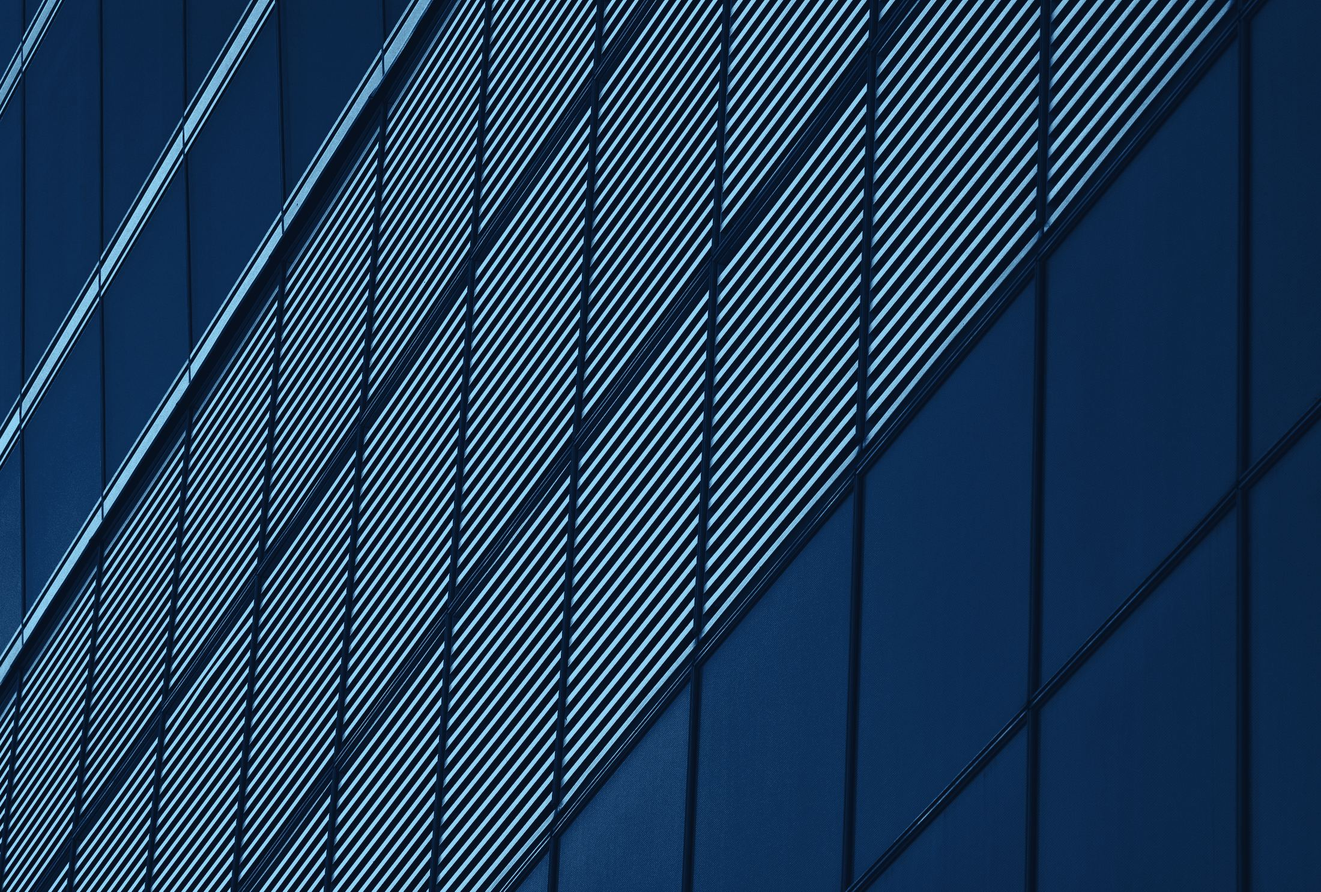
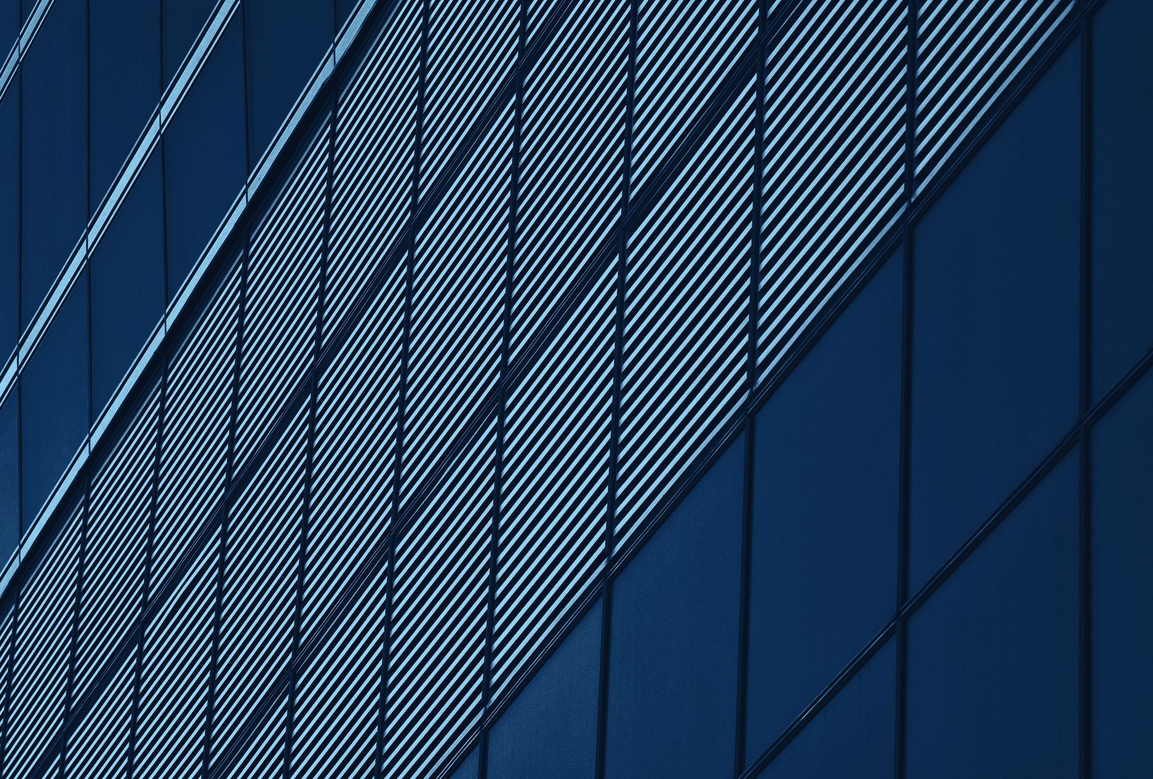
Add files via upload

diff --git a/about.html b/about.html
@@ -1262,6 +1262,9 @@ html[lang="en"] .lg[lang="en"],html[lang="nl"] .lg[lang="nl"],html[lang="fr"] .l
 
 /* ---- v19: hero byline ---- */
 .hero-by{display:block;margin-bottom:18px;font-family:var(--f-mono);font-size:12.5px;letter-spacing:.12em;text-transform:uppercase;color:#7FD3F7}
+
+/* ---- v20: responsive images ---- */
+picture{display:contents}
 </style>
 
 </head>
@@ -1299,7 +1302,7 @@ html[lang="en"] .lg[lang="en"],html[lang="nl"] .lg[lang="nl"],html[lang="fr"] .l
 <main id="top">
 <header class="hero page-hero" id="hero">
   <div class="hero-top">
-    <div class="hero-bg" aria-hidden="true"><img src="img/final.jpg" alt="" fetchpriority="high"></div>
+    <div class="hero-bg" aria-hidden="true"><picture><source type="image/webp" srcset="img/final-640.webp 640w, img/final-1280.webp 1280w, img/final-1920.webp 1920w" sizes="100vw"><img src="img/final.jpg" alt="" fetchpriority="high"></picture></div>
     <div class="wrap hero-inner">
       <span class="eyebrow">About the author</span>
       <h1>About & contact</h1>
@@ -1309,14 +1312,14 @@ html[lang="en"] .lg[lang="en"],html[lang="nl"] .lg[lang="nl"],html[lang="fr"] .l
 </header>
 <section id="contact" class="author" aria-labelledby="au-h">
   <div class="wrap au-grid">
-    <div class="au-side rv"><figure class="au-photo"><img src="img/author.jpg" alt="Portrait of Erlend Hollebosch" loading="lazy" width="720" height="900"></figure></div>
+    <div class="au-side rv"><figure class="au-photo"><picture><source type="image/webp" srcset="img/author-400.webp 400w, img/author-720.webp 720w" sizes="(min-width: 900px) 420px, 260px"><img src="img/author.jpg" alt="Portrait of Erlend Hollebosch" loading="lazy" width="720" height="900"></picture></figure></div>
     <div class="au-text rv">
       <span class="eyebrow">About the author</span>
       <h2 id="au-h">Erlend Hollebosch</h2>
       <p class="au-role">Enterprise Transformation Lead</p>
       <p>More than 20 years of programme, portfolio and transformation leadership in international organisations, including Volvo Group, Solvay, Telenet and Colruyt Group.</p>
       <p>Today I help leaders redesign work for people and AI agents: operating models, governance and adoption that turn AI investment into measurable outcomes.</p>
-      <div class="au-book has-cover"><img class="au-cover" src="img/book-cover.png" alt="Cover of the book The Coherent Enterprise by Erlend Hollebosch" width="600" height="870" loading="lazy"><div class="au-book-t"><span class="k">Forthcoming book</span><cite data-notr>The Coherent Enterprise</cite><p>Why organizations lose coherence faster than they can adapt, and how leaders restore it. This briefing applies that lens to AI and agents.</p><a href="#contact" data-mail="?subject=The%20Coherent%20Enterprise">Ask about the book <span aria-hidden="true">→</span></a></div></div>
+      <div class="au-book has-cover"><picture><source type="image/webp" srcset="img/book-cover-300.webp 300w, img/book-cover-600.webp 600w" sizes="(min-width: 900px) 240px, 50vw"><img class="au-cover" src="img/book-cover.png" alt="Cover of the book The Coherent Enterprise by Erlend Hollebosch" width="600" height="870" loading="lazy"></picture><div class="au-book-t"><span class="k">Forthcoming book</span><cite data-notr>The Coherent Enterprise</cite><p>Why organizations lose coherence faster than they can adapt, and how leaders restore it. This briefing applies that lens to AI and agents.</p><a href="#contact" data-mail="?subject=The%20Coherent%20Enterprise">Ask about the book <span aria-hidden="true">→</span></a></div></div>
     </div>
     <div class="au-reads">
       <article class="au-read rv">

diff --git a/index.html b/index.html
@@ -1262,6 +1262,9 @@ html[lang="en"] .lg[lang="en"],html[lang="nl"] .lg[lang="nl"],html[lang="fr"] .l
 
 /* ---- v19: hero byline ---- */
 .hero-by{display:block;margin-bottom:18px;font-family:var(--f-mono);font-size:12.5px;letter-spacing:.12em;text-transform:uppercase;color:#7FD3F7}
+
+/* ---- v20: responsive images ---- */
+picture{display:contents}
 </style>
 
 </head>
@@ -1299,7 +1302,7 @@ html[lang="en"] .lg[lang="en"],html[lang="nl"] .lg[lang="nl"],html[lang="fr"] .l
 <main id="top">
 <header class="hero" id="hero">
   <div class="hero-top">
-    <div class="hero-bg" aria-hidden="true"><img src="img/hero.jpg" alt="" fetchpriority="high"></div>
+    <div class="hero-bg" aria-hidden="true"><picture><source type="image/webp" srcset="img/hero-640.webp 640w, img/hero-1280.webp 1280w, img/hero-1920.webp 1920w, img/hero-2400.webp 2400w" sizes="100vw"><img src="img/hero.jpg" alt="" fetchpriority="high"></picture></div>
     <div class="wrap hero-inner">
     <span class="eyebrow hero-by">An executive briefing by Erlend Hollebosch</span>
     <h1 data-ih="h1">AI amplifies the system it enters. <em>Make it coherent first.</em></h1>
@@ -1409,7 +1412,7 @@ html[lang="en"] .lg[lang="en"],html[lang="nl"] .lg[lang="nl"],html[lang="fr"] .l
   </div>
 </section>
 <section class="final" id="final" aria-labelledby="fn-h">
-  <div class="final-bg" aria-hidden="true"><img src="img/final.jpg" alt="" loading="lazy"></div>
+  <div class="final-bg" aria-hidden="true"><picture><source type="image/webp" srcset="img/final-640.webp 640w, img/final-1280.webp 1280w, img/final-1920.webp 1920w" sizes="100vw"><img src="img/final.jpg" alt="" loading="lazy"></picture></div>
   <div class="spot" aria-hidden="true"></div>
   <div class="wrap" style="position:relative">
     <h2 id="fn-h">The AI Advantage Will Not Come From Having More AI.</h2>

diff --git a/operating-model.html b/operating-model.html
@@ -1262,6 +1262,9 @@ html[lang="en"] .lg[lang="en"],html[lang="nl"] .lg[lang="nl"],html[lang="fr"] .l
 
 /* ---- v19: hero byline ---- */
 .hero-by{display:block;margin-bottom:18px;font-family:var(--f-mono);font-size:12.5px;letter-spacing:.12em;text-transform:uppercase;color:#7FD3F7}
+
+/* ---- v20: responsive images ---- */
+picture{display:contents}
 </style>
 
 </head>
@@ -1299,7 +1302,7 @@ html[lang="en"] .lg[lang="en"],html[lang="nl"] .lg[lang="nl"],html[lang="fr"] .l
 <main id="top">
 <header class="hero page-hero" id="hero">
   <div class="hero-top">
-    <div class="hero-bg" aria-hidden="true"><img src="img/band-humans.jpg" alt="" fetchpriority="high"></div>
+    <div class="hero-bg" aria-hidden="true"><picture><source type="image/webp" srcset="img/band-humans-640.webp 640w, img/band-humans-1280.webp 1280w, img/band-humans-1920.webp 1920w" sizes="100vw"><img src="img/band-humans.jpg" alt="" fetchpriority="high"></picture></div>
     <div class="wrap hero-inner">
       <span class="eyebrow">Chapters 07–10</span>
       <h1>Humans and agents, under clear rules</h1>
@@ -1351,7 +1354,7 @@ html[lang="en"] .lg[lang="en"],html[lang="nl"] .lg[lang="nl"],html[lang="fr"] .l
   </div>
 </section>
 <figure class="band" aria-label="Autonomy needs architecture.">
-  <img src="img/band-governance.jpg" alt="" loading="lazy">
+  <picture><source type="image/webp" srcset="img/band-governance-640.webp 640w, img/band-governance-1280.webp 1280w, img/band-governance-1920.webp 1920w" sizes="100vw"><img src="img/band-governance.jpg" alt="" loading="lazy"></picture>
   <figcaption><div class="wrap"><p>Autonomy needs architecture.</p></div></figcaption>
 </figure>
 <section id="governance" class="tinted" aria-labelledby="gv-h">

diff --git a/process.html b/process.html
@@ -1262,6 +1262,9 @@ html[lang="en"] .lg[lang="en"],html[lang="nl"] .lg[lang="nl"],html[lang="fr"] .l
 
 /* ---- v19: hero byline ---- */
 .hero-by{display:block;margin-bottom:18px;font-family:var(--f-mono);font-size:12.5px;letter-spacing:.12em;text-transform:uppercase;color:#7FD3F7}
+
+/* ---- v20: responsive images ---- */
+picture{display:contents}
 </style>
 
 </head>
@@ -1299,7 +1302,7 @@ html[lang="en"] .lg[lang="en"],html[lang="nl"] .lg[lang="nl"],html[lang="fr"] .l
 <main id="top">
 <header class="hero page-hero" id="hero">
   <div class="hero-top">
-    <div class="hero-bg" aria-hidden="true"><img src="img/band-process.jpg" alt="" fetchpriority="high"></div>
+    <div class="hero-bg" aria-hidden="true"><picture><source type="image/webp" srcset="img/band-process-640.webp 640w, img/band-process-1280.webp 1280w, img/band-process-1920.webp 1920w" sizes="100vw"><img src="img/band-process.jpg" alt="" fetchpriority="high"></picture></div>
     <div class="wrap hero-inner">
       <span class="eyebrow">Chapters 05–06</span>
       <h1>Redesign the process. Don't speed up the old one.</h1>

diff --git a/approach.html b/approach.html
@@ -1262,6 +1262,9 @@ html[lang="en"] .lg[lang="en"],html[lang="nl"] .lg[lang="nl"],html[lang="fr"] .l
 
 /* ---- v19: hero byline ---- */
 .hero-by{display:block;margin-bottom:18px;font-family:var(--f-mono);font-size:12.5px;letter-spacing:.12em;text-transform:uppercase;color:#7FD3F7}
+
+/* ---- v20: responsive images ---- */
+picture{display:contents}
 </style>
 
 </head>
@@ -1299,7 +1302,7 @@ html[lang="en"] .lg[lang="en"],html[lang="nl"] .lg[lang="nl"],html[lang="fr"] .l
 <main id="top">
 <header class="hero page-hero" id="hero">
   <div class="hero-top">
-    <div class="hero-bg" aria-hidden="true"><img src="img/band-roadmap.jpg" alt="" fetchpriority="high"></div>
+    <div class="hero-bg" aria-hidden="true"><picture><source type="image/webp" srcset="img/band-roadmap-640.webp 640w, img/band-roadmap-1280.webp 1280w, img/band-roadmap-1920.webp 1920w" sizes="100vw"><img src="img/band-roadmap.jpg" alt="" fetchpriority="high"></picture></div>
     <div class="wrap hero-inner">
       <span class="eyebrow">Chapters 11–13</span>
       <h1>From first step to scale</h1>

diff --git a/value.html b/value.html
@@ -1262,6 +1262,9 @@ html[lang="en"] .lg[lang="en"],html[lang="nl"] .lg[lang="nl"],html[lang="fr"] .l
 
 /* ---- v19: hero byline ---- */
 .hero-by{display:block;margin-bottom:18px;font-family:var(--f-mono);font-size:12.5px;letter-spacing:.12em;text-transform:uppercase;color:#7FD3F7}
+
+/* ---- v20: responsive images ---- */
+picture{display:contents}
 </style>
 
 </head>
@@ -1299,7 +1302,7 @@ html[lang="en"] .lg[lang="en"],html[lang="nl"] .lg[lang="nl"],html[lang="fr"] .l
 <main id="top">
 <header class="hero page-hero" id="hero">
   <div class="hero-top">
-    <div class="hero-bg" aria-hidden="true"><img src="img/band-agents.jpg" alt="" fetchpriority="high"></div>
+    <div class="hero-bg" aria-hidden="true"><picture><source type="image/webp" srcset="img/band-agents-640.webp 640w, img/band-agents-1280.webp 1280w, img/band-agents-1920.webp 1920w" sizes="100vw"><img src="img/band-agents.jpg" alt="" fetchpriority="high"></picture></div>
     <div class="wrap hero-inner">
       <span class="eyebrow">Chapters 03–04</span>
       <h1>Where AI creates value</h1>

diff --git a/insights.html b/insights.html
@@ -1262,6 +1262,9 @@ html[lang="en"] .lg[lang="en"],html[lang="nl"] .lg[lang="nl"],html[lang="fr"] .l
 
 /* ---- v19: hero byline ---- */
 .hero-by{display:block;margin-bottom:18px;font-family:var(--f-mono);font-size:12.5px;letter-spacing:.12em;text-transform:uppercase;color:#7FD3F7}
+
+/* ---- v20: responsive images ---- */
+picture{display:contents}
 </style>
 
 </head>
@@ -1299,7 +1302,7 @@ html[lang="en"] .lg[lang="en"],html[lang="nl"] .lg[lang="nl"],html[lang="fr"] .l
 <main id="top">
 <header class="hero page-hero" id="hero">
   <div class="hero-top">
-    <div class="hero-bg" aria-hidden="true"><img src="img/hero.jpg" alt="" fetchpriority="high"></div>
+    <div class="hero-bg" aria-hidden="true"><picture><source type="image/webp" srcset="img/hero-640.webp 640w, img/hero-1280.webp 1280w, img/hero-1920.webp 1920w, img/hero-2400.webp 2400w" sizes="100vw"><img src="img/hero.jpg" alt="" fetchpriority="high"></picture></div>
     <div class="wrap hero-inner">
       <span class="eyebrow">Insights</span>
       <h1>Short reads for leaders</h1>

diff --git a/accessibility.html b/accessibility.html
@@ -1263,6 +1263,9 @@ html[lang="en"] .lg[lang="en"],html[lang="nl"] .lg[lang="nl"],html[lang="fr"] .l
 
 /* ---- v19: hero byline ---- */
 .hero-by{display:block;margin-bottom:18px;font-family:var(--f-mono);font-size:12.5px;letter-spacing:.12em;text-transform:uppercase;color:#7FD3F7}
+
+/* ---- v20: responsive images ---- */
+picture{display:contents}
 </style>
 
 </head>
@@ -1300,7 +1303,7 @@ html[lang="en"] .lg[lang="en"],html[lang="nl"] .lg[lang="nl"],html[lang="fr"] .l
 <main id="top">
 <header class="hero page-hero legal-hero" id="hero">
   <div class="hero-top">
-    <div class="hero-bg" aria-hidden="true"><img src="img/final.jpg" alt="" fetchpriority="high"></div>
+    <div class="hero-bg" aria-hidden="true"><picture><source type="image/webp" srcset="img/final-640.webp 640w, img/final-1280.webp 1280w, img/final-1920.webp 1920w" sizes="100vw"><img src="img/final.jpg" alt="" fetchpriority="high"></picture></div>
     <div class="wrap hero-inner">
       <span class="eyebrow">Legal</span>
       <h1>Accessibility statement</h1>

diff --git a/404.html b/404.html
@@ -1248,6 +1248,9 @@ html[lang="en"] .lg[lang="en"],html[lang="nl"] .lg[lang="nl"],html[lang="fr"] .l
 
 /* ---- v19: hero byline ---- */
 .hero-by{display:block;margin-bottom:18px;font-family:var(--f-mono);font-size:12.5px;letter-spacing:.12em;text-transform:uppercase;color:#7FD3F7}
+
+/* ---- v20: responsive images ---- */
+picture{display:contents}
 </style>
 
 </head>
@@ -1285,7 +1288,7 @@ html[lang="en"] .lg[lang="en"],html[lang="nl"] .lg[lang="nl"],html[lang="fr"] .l
 <main id="top">
 <header class="hero page-hero legal-hero" id="hero">
   <div class="hero-top">
-    <div class="hero-bg" aria-hidden="true"><img src="img/final.jpg" alt="" fetchpriority="high"></div>
+    <div class="hero-bg" aria-hidden="true"><picture><source type="image/webp" srcset="img/final-640.webp 640w, img/final-1280.webp 1280w, img/final-1920.webp 1920w" sizes="100vw"><img src="img/final.jpg" alt="" fetchpriority="high"></picture></div>
     <div class="wrap hero-inner">
       <span class="eyebrow">Error 404</span>
       <h1>Page not found</h1>

diff --git a/privacy.html b/privacy.html
@@ -1263,6 +1263,9 @@ html[lang="en"] .lg[lang="en"],html[lang="nl"] .lg[lang="nl"],html[lang="fr"] .l
 
 /* ---- v19: hero byline ---- */
 .hero-by{display:block;margin-bottom:18px;font-family:var(--f-mono);font-size:12.5px;letter-spacing:.12em;text-transform:uppercase;color:#7FD3F7}
+
+/* ---- v20: responsive images ---- */
+picture{display:contents}
 </style>
 
 </head>
@@ -1300,7 +1303,7 @@ html[lang="en"] .lg[lang="en"],html[lang="nl"] .lg[lang="nl"],html[lang="fr"] .l
 <main id="top">
 <header class="hero page-hero legal-hero" id="hero">
   <div class="hero-top">
-    <div class="hero-bg" aria-hidden="true"><img src="img/final.jpg" alt="" fetchpriority="high"></div>
+    <div class="hero-bg" aria-hidden="true"><picture><source type="image/webp" srcset="img/final-640.webp 640w, img/final-1280.webp 1280w, img/final-1920.webp 1920w" sizes="100vw"><img src="img/final.jpg" alt="" fetchpriority="high"></picture></div>
     <div class="wrap hero-inner">
       <span class="eyebrow">Legal</span>
       <h1>Privacy policy</h1>

diff --git a/terms.html b/terms.html
@@ -1263,6 +1263,9 @@ html[lang="en"] .lg[lang="en"],html[lang="nl"] .lg[lang="nl"],html[lang="fr"] .l
 
 /* ---- v19: hero byline ---- */
 .hero-by{display:block;margin-bottom:18px;font-family:var(--f-mono);font-size:12.5px;letter-spacing:.12em;text-transform:uppercase;color:#7FD3F7}
+
+/* ---- v20: responsive images ---- */
+picture{display:contents}
 </style>
 
 </head>
@@ -1300,7 +1303,7 @@ html[lang="en"] .lg[lang="en"],html[lang="nl"] .lg[lang="nl"],html[lang="fr"] .l
 <main id="top">
 <header class="hero page-hero legal-hero" id="hero">
   <div class="hero-top">
-    <div class="hero-bg" aria-hidden="true"><img src="img/final.jpg" alt="" fetchpriority="high"></div>
+    <div class="hero-bg" aria-hidden="true"><picture><source type="image/webp" srcset="img/final-640.webp 640w, img/final-1280.webp 1280w, img/final-1920.webp 1920w" sizes="100vw"><img src="img/final.jpg" alt="" fetchpriority="high"></picture></div>
     <div class="wrap hero-inner">
       <span class="eyebrow">Legal</span>
       <h1>Terms of use</h1>
